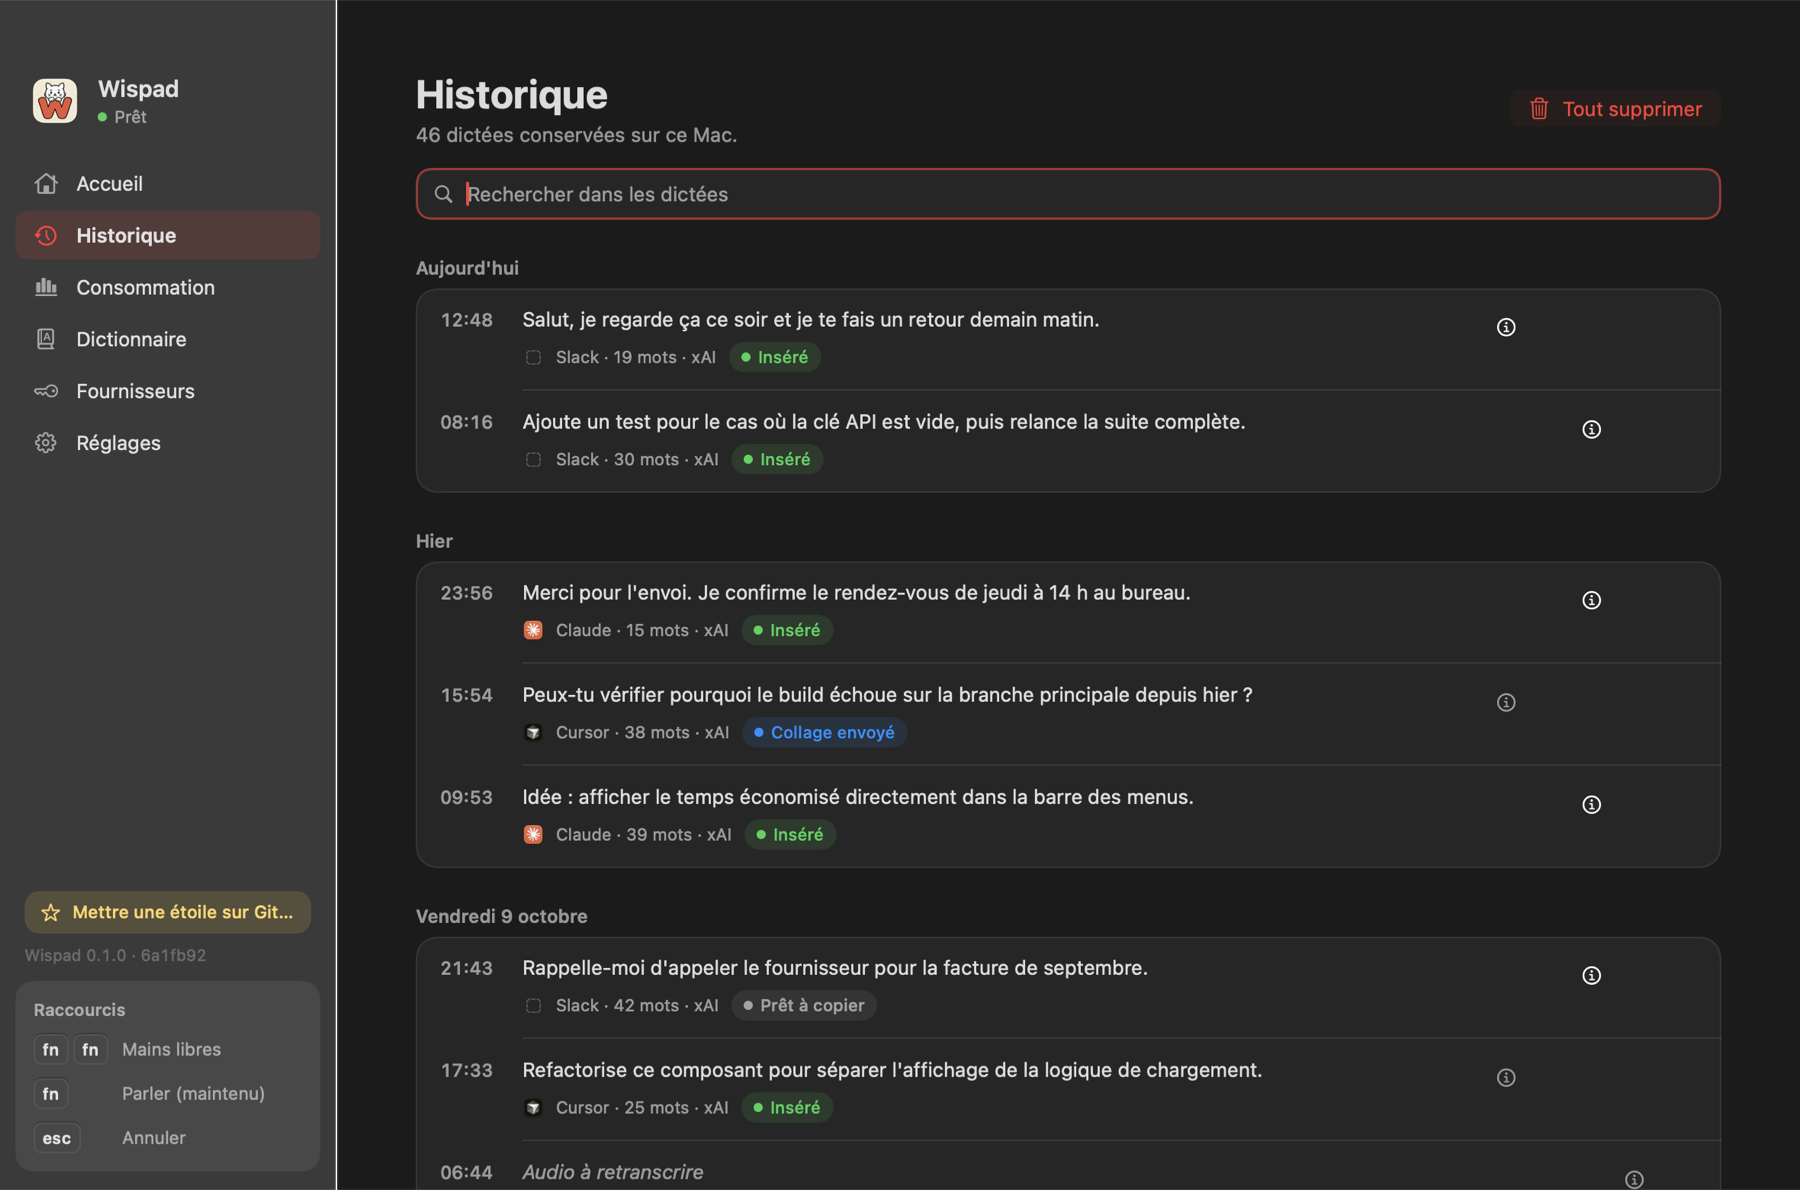
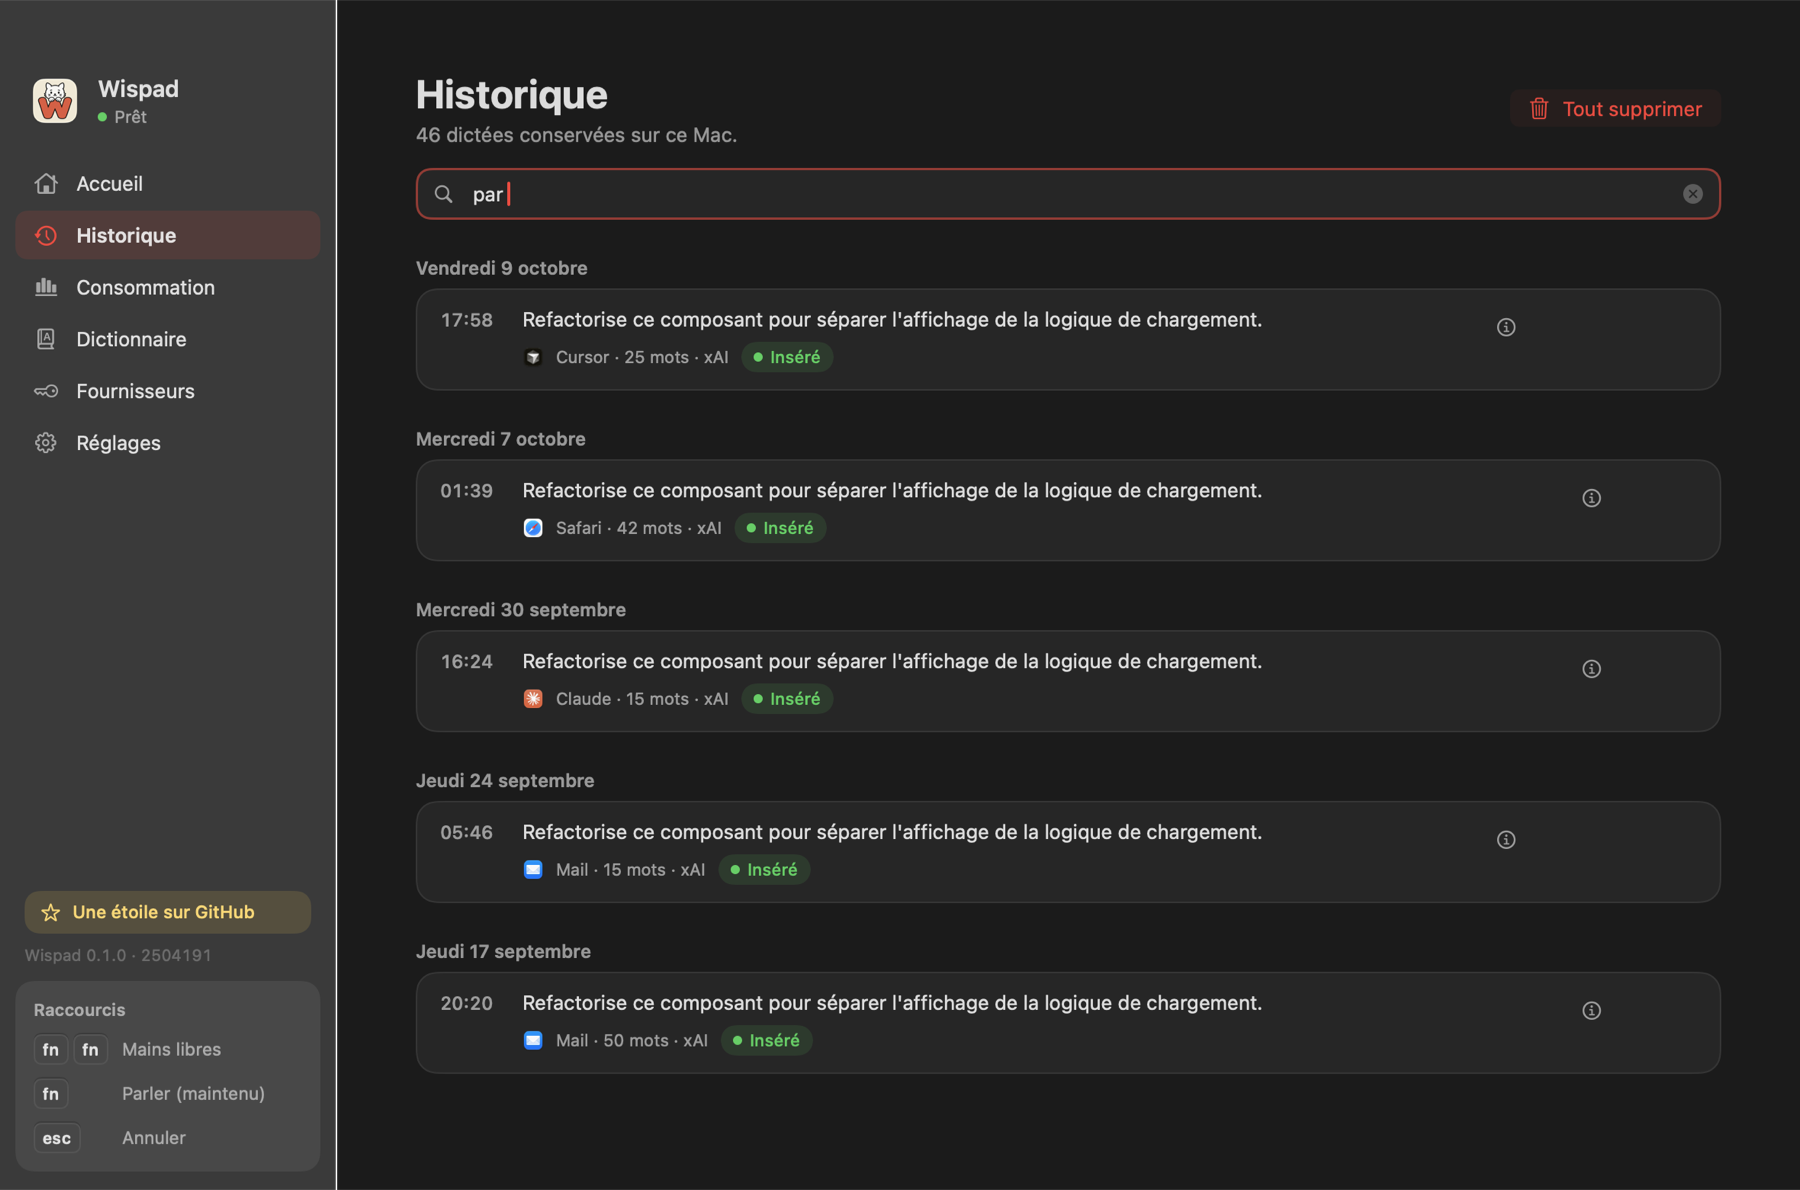
Remplace l'image d'en-tête par de vraies captures de l'app (#4)

diff --git a/README.md b/README.md
@@ -1,5 +1,5 @@
 <p align="center">
-  <img src="docs/images/hero.jpg" alt="La bulle de dictée de Wispad au-dessus d'un clavier de Mac, une onde corail qui devient du texte" width="100%">
+  <img src="docs/images/hero.jpg" alt="Wispad sur macOS : l'écran Accueil au premier plan, l'Historique et la Consommation derrière" width="100%">
 </p>
 
 <p align="center">
